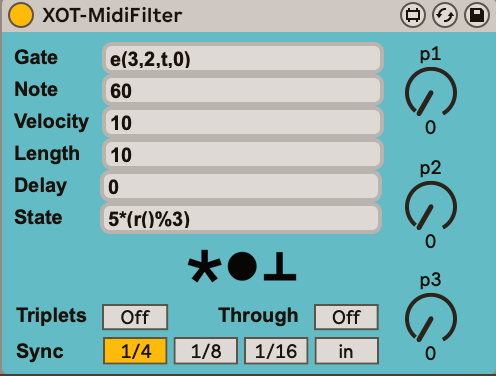
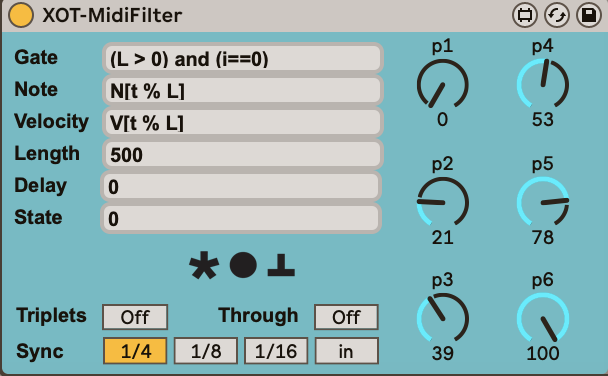
Three more parameter dials added. Midi Effect Rack example added

diff --git a/README.md b/README.md
@@ -69,13 +69,13 @@ In the function definitions the following variables can be used.
 - `V[i]`: current chord note velocity at index `i`.
 - `S`: the current state.
 - `NS`: the new state.
-- `p1`, `p2`, `p3`: the values of the three dials (between 0..100).
+- `p1`, `p2`, `p3`, `p4`, `p5`, `p6`: the values of the three dials (between 0..100).
 
 Moreover, the following helper functions are available.
 
 - `e(n,k,r,i)`: the euclid generatior for n slots, k pulses, with rotation r, returning whether the slot at index i has a pulse or not (boolean). (*Note: the [algorithm used](https://paulbatchelor.github.io/sndkit/euclid/) is a simplified one-line version of the original recursive algorithm, that produces the same pattern but with a fixed but seemingly random rotation; adjust the rotation to get the actual Euclidean pattern.*) 
 - `b(v)`: convert a boolean v to 0 (false) or 1 (true).
-- `r()`: return a uniform random value between 0..100 (inclusive).
+- `r()`: return a uniform random value between 0..99 (inclusive).
 - `div(n,d)`: the integer division of n by d.
 
 When 'Through' equals 'On', all incoming MIDI events are passed through. When 'Off', all are blocked and the output is only as generated by XOT-MidiFilter itself.
@@ -172,6 +172,12 @@ Delay
 
 State
 : `0`; not used.
+
+### Using MidiRack
+
+Embedding MidiFilter inside a Ableton Live Midi Effect Rack is useful to create sensible names for the parameters, and to limit their range to useful values, like in this Euclidean rhythm generator preset.
+
+![Screenshot](Screenshot2.png "Screenshot")
 
 ## Note
 
